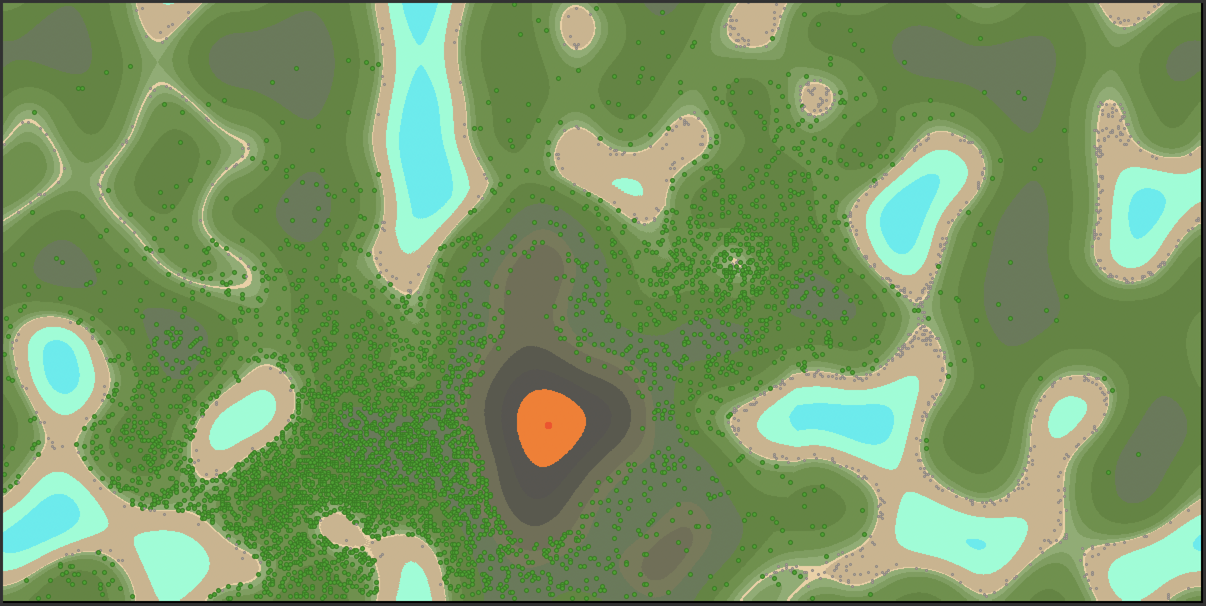
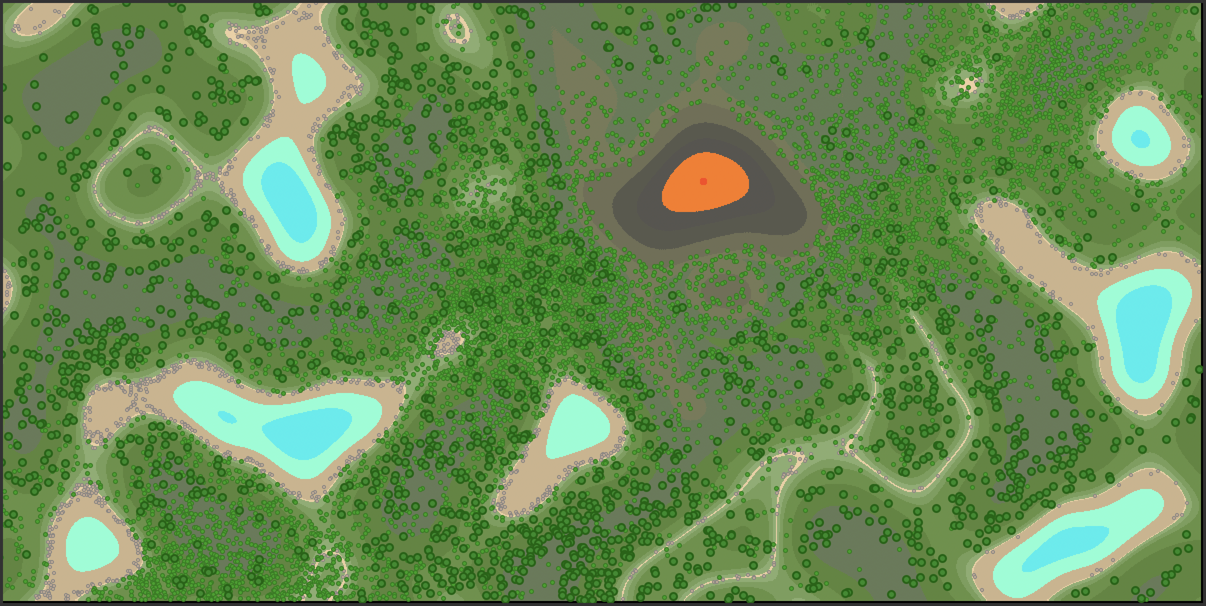
add: integrate forest rendering into image

diff --git a/src_environment/GameCanvas.py b/src_environment/GameCanvas.py
@@ -78,10 +78,15 @@ class GameCanvas(Canvas):
                 # Create the rectangle with the determined fill color
                 self.create_rectangle(x, y, x + 1, y + 1, fill=fill_colour, outline=fill_colour)
         
-        for y in range(0, self.height, 2):
-            for x in range(0, self.width, 2):
-                if(rockmap[x, y]):self.create_oval(x-1, y-1, x+1, y+1, fill="PeachPuff3", outline="seashell4", width = 1)
+        for y in range(0, self.height, 1):
+            for x in range(0, self.width, 1):
+                if(rockmap[x, y]):self.create_oval(x-2, y-2, x+1, y+1, fill="PeachPuff3", outline="seashell4", width = 1)
+        for y in range(0, self.height, 1):
+            for x in range(0, self.width, 1):               
                 if(bush_map[x, y]): self.create_oval(x-2, y-2, x+2, y+2, fill="#20a115", outline="#167d0c", width = 1)
+        for y in range(0, self.height, 1):
+            for x in range(0, self.width, 1):        
+                if(forest_map[x, y]): self.create_oval(x-2, y-2, x+5, y+5, fill="forest green", outline="dark green", width = 2)
 
         self.update()
         save_as_png(self, "temp.png")
@@ -94,7 +99,6 @@ class GameCanvas(Canvas):
 
         for y in range(0, self.height, 5):
             for x in range(0, self.width, 5):
-                if(forest_map[x, y]): self.create_oval(x-2, y-2, x+5, y+5, fill="forest green", outline="dark green", width = 2)
                 if(resources[x, y] > 0): self.create_oval(x, y, x+5, y+5, fill="yellow", outline="red", width = 2)
 
 

diff --git a/src_environment/src_terrain_generation/bblyn_generate_forestmap.py b/src_environment/src_terrain_generation/bblyn_generate_forestmap.py
@@ -16,7 +16,8 @@ def generate_booleanmap(heightmap, num_clusters: int, cluster_density: float, cl
         rockmap |= np.random.rand(*rockmap.shape) < probabilities.reshape(rockmap.shape)
     return rockmap
 
-def generate_rockmap(heightmap) -> np.array: return generate_booleanmap(heightmap, 6, 0.1, 150, 80, 95)
-def generate_forestmap(heightmap) -> np.array: return generate_booleanmap(heightmap, 6, 0.1, 110, 110, 230)
-def generate_bushmap(heightmap) -> np.array: return generate_booleanmap(heightmap, 6, 0.15, 70, 90, 300)
+# Partial Function Applications to generate features, using booleanmap as a base.
+def generate_rockmap(heightmap) -> np.array: return generate_booleanmap(heightmap, 6, 0.05, 150, 80, 95)
+def generate_forestmap(heightmap) -> np.array: return generate_booleanmap(heightmap, 6, 0.01, 110, 110, 230)
+def generate_bushmap(heightmap) -> np.array: return generate_booleanmap(heightmap, 6, 0.06, 70, 90, 300)
 
